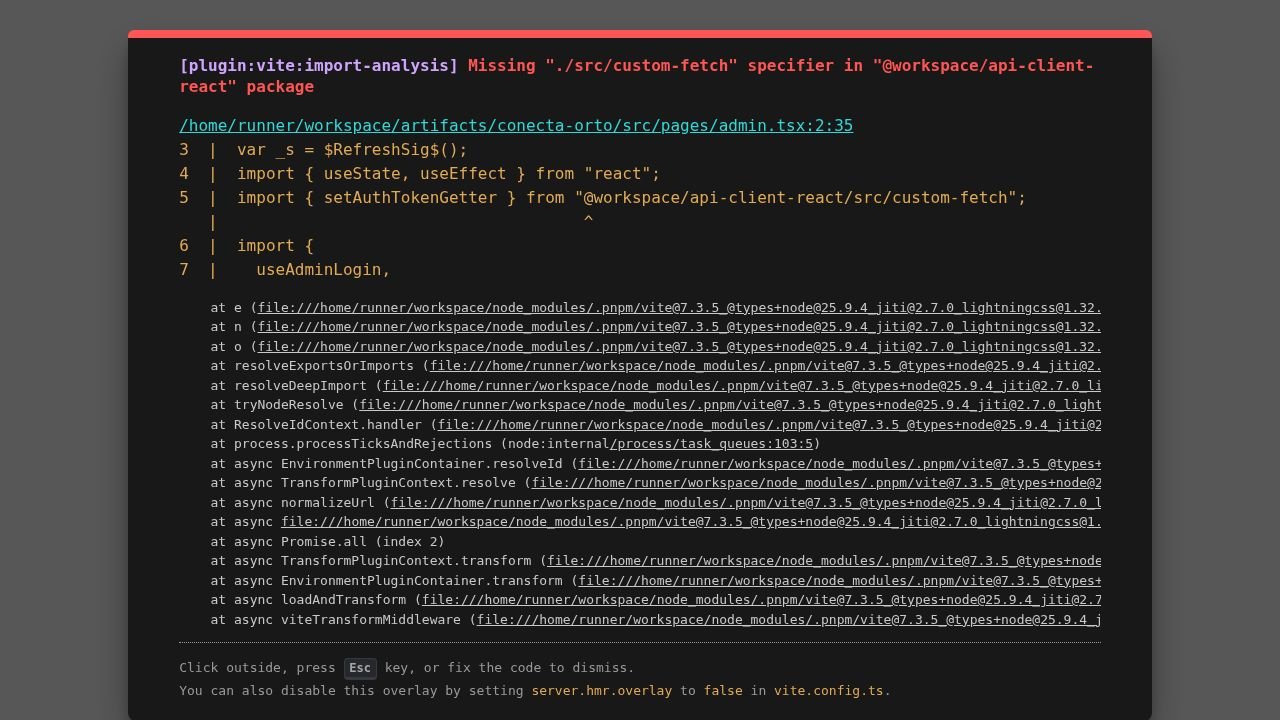
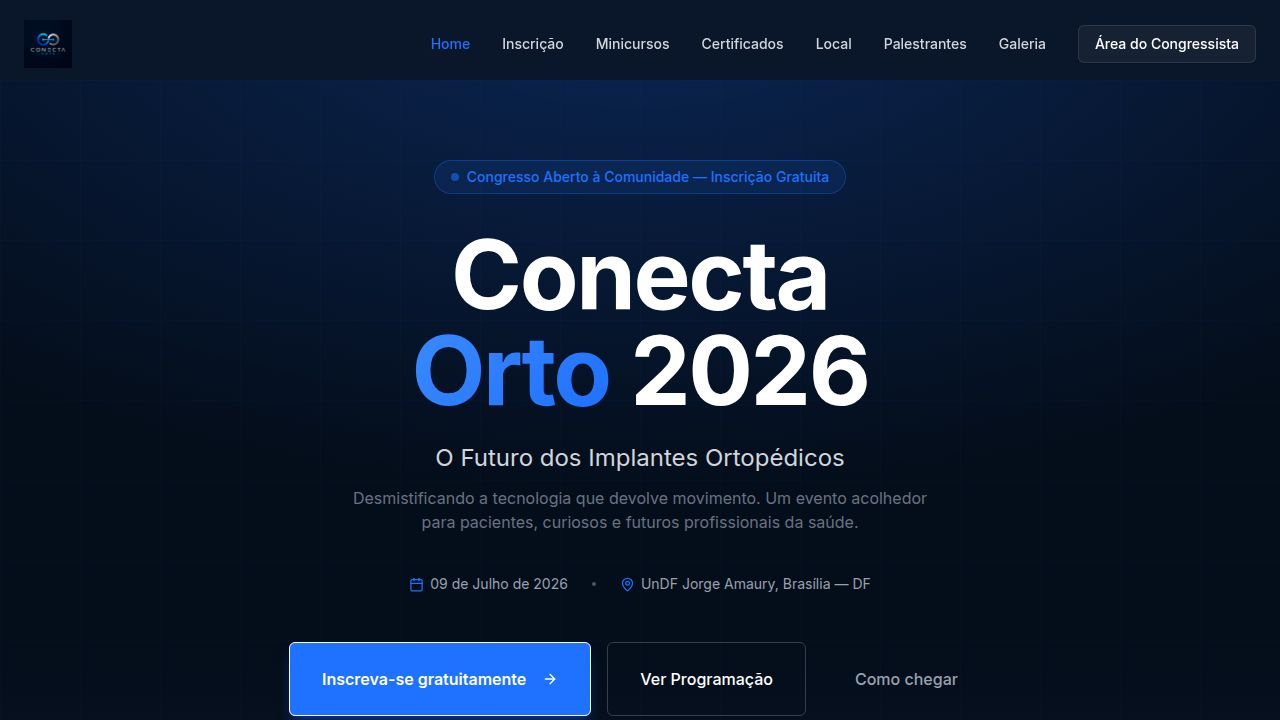
Add a video section to the home page and enhance minicourse details
Integrate a new video section on the home page, add a 'type' field to minicourses in the API and database schema, and update the minicourses page to display these types with corresponding badges. Also, update the seeding script to include the new 'type' field for minicourses.

Replit-Commit-Author: Agent
Replit-Commit-Session-Id: 5339d4e6-6911-4479-8a27-2438424637c2
Replit-Commit-Checkpoint-Type: full_checkpoint
Replit-Commit-Event-Id: ceb21e7a-460b-43da-b98b-e27c0e9ced62
Replit-Commit-Screenshot-Url: https://storage.googleapis.com/screenshot-production-us-central1/b13dabdf-e5b0-4fab-b12e-b75ff93e37d3/5339d4e6-6911-4479-8a27-2438424637c2/7aCE2at
Replit-Helium-Checkpoint-Created: true

diff --git a/artifacts/conecta-orto/src/pages/home.tsx b/artifacts/conecta-orto/src/pages/home.tsx
@@ -150,6 +150,48 @@ export default function Home() {
         </div>
       </section>
 
+      {/* ─── VIDEO + ABOUT ───────────────────────────────────────────── */}
+      <section className="py-24 bg-[#0A1628]">
+        <div className="container mx-auto px-4">
+          <div className="grid grid-cols-1 lg:grid-cols-2 gap-12 items-center max-w-6xl mx-auto">
+            <motion.div
+              initial={{ opacity: 0, x: -30 }} whileInView={{ opacity: 1, x: 0 }}
+              viewport={{ once: true }} transition={{ duration: 0.7 }}
+            >
+              <h2 className="text-3xl md:text-4xl font-bold mb-5 text-white">Sobre o Congresso</h2>
+              <p className="text-gray-400 text-lg leading-relaxed mb-4">
+                Muitas pessoas convivem com implantes ortopédicos — pinos, placas, próteses — ou enfrentarão essa realidade no futuro. O desconhecimento gera medo e insegurança.
+              </p>
+              <p className="text-gray-400 leading-relaxed mb-6">
+                O <strong className="text-white">Conecta Orto 2026</strong> foi criado para desmistificar essa tecnologia: explicar com clareza, mostrar a segurança por trás dos materiais e acolher quem tem dúvidas ou receios sobre os procedimentos.
+              </p>
+              <Link href="/inscricao">
+                <Button className="font-semibold">
+                  Ver a programação completa <ArrowRight className="ml-2 w-4 h-4" />
+                </Button>
+              </Link>
+            </motion.div>
+
+            <motion.div
+              initial={{ opacity: 0, x: 30 }} whileInView={{ opacity: 1, x: 0 }}
+              viewport={{ once: true }} transition={{ duration: 0.7 }}
+              className="relative"
+            >
+              <div className="rounded-2xl overflow-hidden border border-white/10 shadow-2xl shadow-primary/10 aspect-video">
+                <iframe
+                  src="https://www.youtube.com/embed/dQw4w9WgXcQ?rel=0&modestbranding=1"
+                  title="Vídeo do Conecta Orto 2026"
+                  allow="accelerometer; autoplay; clipboard-write; encrypted-media; gyroscope; picture-in-picture"
+                  allowFullScreen
+                  className="w-full h-full"
+                />
+              </div>
+              <div className="absolute -bottom-3 -right-3 w-24 h-24 bg-primary/20 rounded-full blur-2xl" />
+            </motion.div>
+          </div>
+        </div>
+      </section>
+
       {/* ─── ABOUT / PILLARS ──────────────────────────────────────────── */}
       <section className="py-24 bg-[#0A1628]">
         <div className="container mx-auto px-4">
@@ -197,7 +239,7 @@ export default function Home() {
             {[
               { value: "+300", label: "Participantes esperados" },
               { value: "8",    label: "Palestras e demonstrações" },
-              { value: "2",    label: "Minicursos práticos" },
+              { value: "5",    label: "Minicursos práticos" },
               { value: "10h",  label: "Carga horária certificada" },
             ].map(({ value, label }, i) => (
               <motion.div

diff --git a/artifacts/conecta-orto/src/pages/minicourses.tsx b/artifacts/conecta-orto/src/pages/minicourses.tsx
@@ -9,7 +9,7 @@ import { Dialog, DialogContent, DialogDescription, DialogHeader, DialogTitle } f
 import { Input } from "@/components/ui/input";
 import { Label } from "@/components/ui/label";
 import { useToast } from "@/hooks/use-toast";
-import { Clock, User, Users } from "lucide-react";
+import { Clock, User, Users, FlaskConical, BookOpen, Wrench, Monitor, HeartPulse } from "lucide-react";
 import { useQueryClient } from "@tanstack/react-query";
 
 export default function Minicourses() {
@@ -75,7 +75,7 @@ export default function Minicourses() {
           toast({
             variant: "destructive",
             title: "Erro na matrícula",
-            description: error.error || "Você já está matriculado neste ou em outro minicurso.",
+            description: (error as { error?: string }).error || "Você já está matriculado neste ou em outro minicurso.",
           });
         },
       }
@@ -99,10 +99,19 @@ export default function Minicourses() {
         {isLoading ? (
           <div className="flex justify-center"><div className="w-8 h-8 rounded-full border-2 border-primary border-t-transparent animate-spin" /></div>
         ) : (
-          <div className="grid grid-cols-1 md:grid-cols-2 gap-8 max-w-5xl mx-auto">
+          <div className="grid grid-cols-1 md:grid-cols-2 lg:grid-cols-3 gap-8 max-w-6xl mx-auto">
             {minicourses?.map((course) => {
               const percentage = Math.round((course.enrollmentCount / course.maxCapacity) * 100);
               const isFull = course.enrollmentCount >= course.maxCapacity;
+
+              const TYPE_MAP: Record<string, { label: string; color: string; Icon: React.ElementType }> = {
+                teoria:      { label: "Teórico",    color: "bg-blue-500/15 text-blue-300 border-blue-500/30",    Icon: BookOpen },
+                pratico:     { label: "Prático",    color: "bg-emerald-500/15 text-emerald-300 border-emerald-500/30", Icon: Wrench },
+                tecnologia:  { label: "Tecnologia", color: "bg-violet-500/15 text-violet-300 border-violet-500/30",  Icon: Monitor },
+                clinico:     { label: "Clínico",    color: "bg-pink-500/15 text-pink-300 border-pink-500/30",       Icon: HeartPulse },
+                laboratorio: { label: "Lab",        color: "bg-amber-500/15 text-amber-300 border-amber-500/30",    Icon: FlaskConical },
+              };
+              const typeInfo = TYPE_MAP[course.type] ?? TYPE_MAP["pratico"];
 
               return (
                 <motion.div
@@ -111,14 +120,18 @@ export default function Minicourses() {
                   animate={{ opacity: 1, scale: 1 }}
                   transition={{ duration: 0.4 }}
                 >
-                  <Card className="h-full flex flex-col glass-panel border-white/10 bg-[#0D1F3C]/50">
+                  <Card className="h-full flex flex-col glass-panel border-white/10 bg-[#0D1F3C]/50 hover:border-primary/30 transition-all duration-300">
                     <CardHeader>
-                      <div className="flex justify-between items-start mb-2">
-                        <Badge variant={isFull ? "destructive" : "default"} className={!isFull ? "bg-primary text-primary-foreground" : ""}>
+                      <div className="flex justify-between items-start mb-2 gap-2 flex-wrap">
+                        <Badge className={`border text-xs font-medium ${typeInfo.color}`}>
+                          <typeInfo.Icon className="w-3 h-3 mr-1" />
+                          {typeInfo.label}
+                        </Badge>
+                        <Badge variant={isFull ? "destructive" : "outline"} className={!isFull ? "border-emerald-500/40 text-emerald-400 text-xs" : "text-xs"}>
                           {isFull ? "Esgotado" : "Vagas Abertas"}
                         </Badge>
                       </div>
-                      <CardTitle className="text-2xl text-white">{course.title}</CardTitle>
+                      <CardTitle className="text-xl text-white leading-snug">{course.title}</CardTitle>
                       <CardDescription className="text-gray-400 mt-2 line-clamp-3">
                         {course.description}
                       </CardDescription>

diff --git a/artifacts/conecta-orto/src/pages/registration.tsx b/artifacts/conecta-orto/src/pages/registration.tsx
@@ -63,7 +63,7 @@ export default function Registration() {
           toast({
             variant: "destructive",
             title: "Erro na inscrição",
-            description: error.error || "Ocorreu um erro ao processar sua inscrição. Tente novamente.",
+            description: (error as { error?: string }).error || "Ocorreu um erro ao processar sua inscrição. Tente novamente.",
           });
         },
       }

diff --git a/artifacts/api-server/src/routes/minicourses.ts b/artifacts/api-server/src/routes/minicourses.ts
@@ -22,6 +22,7 @@ router.get("/minicourses", async (_req, res) => {
       description: c.description,
       duration: c.duration,
       maxCapacity: c.maxCapacity,
+      type: c.type,
       enrollmentCount: countMap[c.id] ?? 0,
     }))
   );

diff --git a/lib/db/src/schema/index.ts b/lib/db/src/schema/index.ts
@@ -23,6 +23,7 @@ export const minicoursesTable = pgTable("minicourses", {
   description: text("description").notNull(),
   duration: text("duration").notNull(),
   maxCapacity: integer("max_capacity").notNull().default(30),
+  type: text("type").notNull().default("pratico"),
   createdAt: timestamp("created_at").defaultNow().notNull(),
 });
 